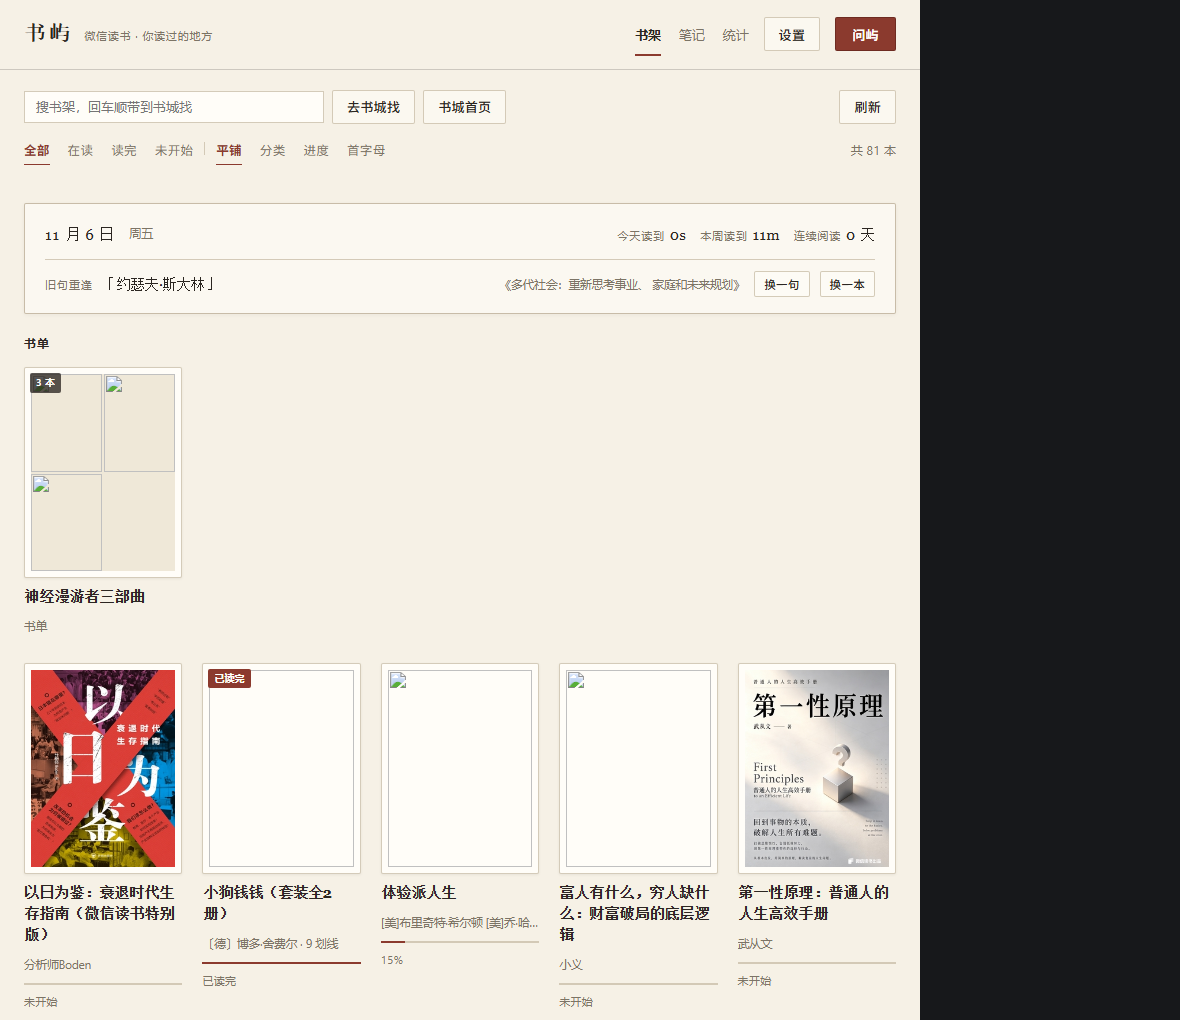
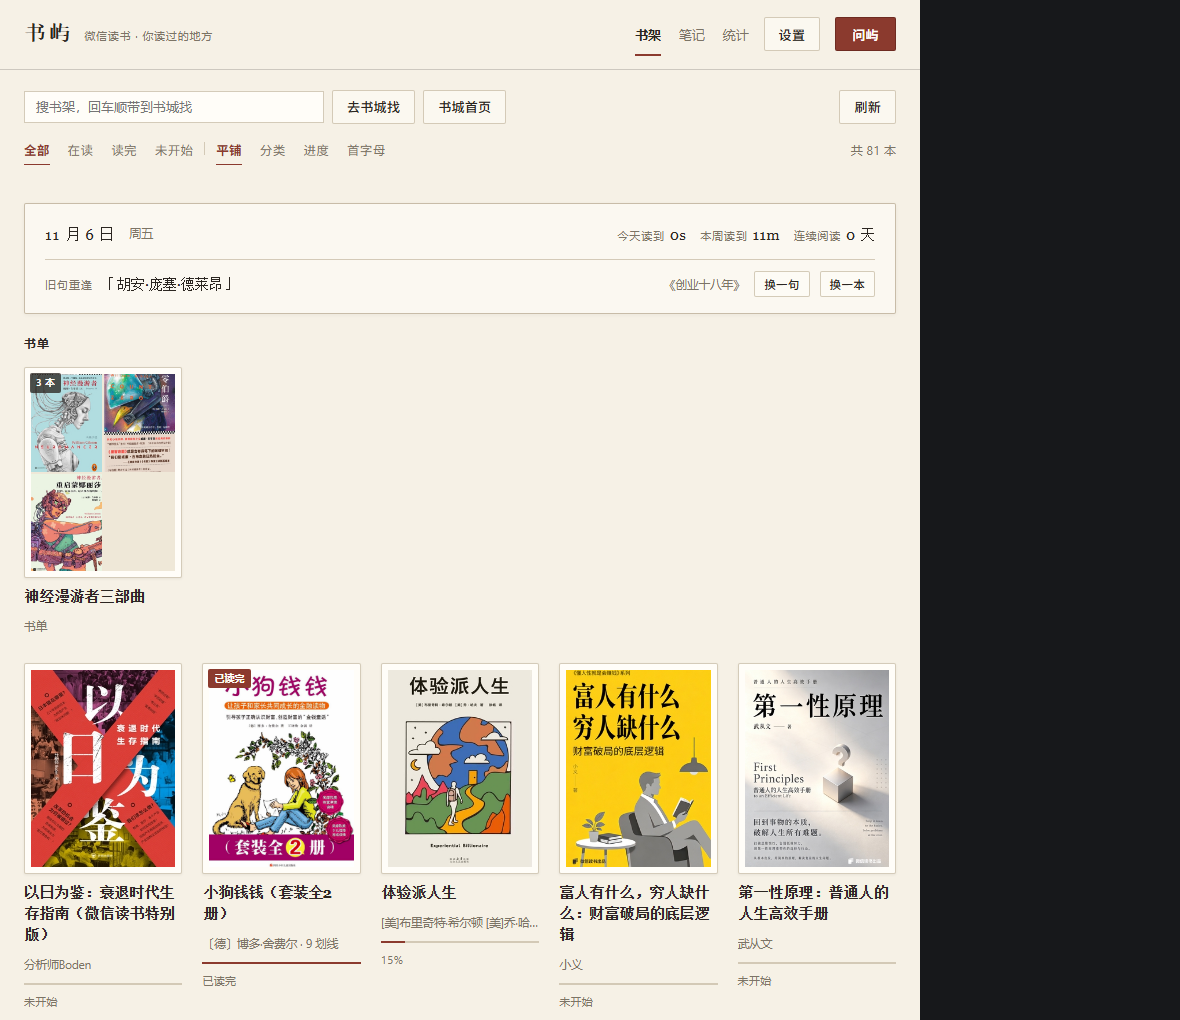
书屿 v0.9.5: 封面加载改成小队列取图（6 并发 + 重试），原生 <img> 竞速导致的偶发空白消除

diff --git a/client.js b/client.js
@@ -513,7 +513,7 @@ window.__ModuleLoader__.load({
         borderRadius: 2,
         boxShadow: '0 1px 3px rgba(43,38,33,.07)',
       },
-      coverImg: { width: '100%', height: '100%', objectFit: 'cover', display: 'block' },
+      coverImg: { position: 'relative', width: '100%', height: '100%', objectFit: 'cover', display: 'block' },
       coverFallback: {
         width: '100%',
         height: '100%',
@@ -810,28 +810,91 @@ window.__ModuleLoader__.load({
       return h('button', { type: 'button', style: { ...S[kind], ...style }, ...rest }, children);
     }
 
+    // ------------------------------------------------------------ cover loading
+    // Covers come through the host proxy (upstream needs our referer). Firing 84 <img> tags at
+    // once left a few frames permanently blank, so fetch them through a small queue instead:
+    // six in flight, two retries, bytes kept as object URLs.
+    const coverCache = new Map();
+    const coverQueue = [];
+    let coverActive = 0;
+
+    const pumpCovers = () => {
+      while (coverActive < 6 && coverQueue.length) {
+        const job = coverQueue.shift();
+        coverActive += 1;
+        job().finally(() => {
+          coverActive -= 1;
+          pumpCovers();
+        });
+      }
+    };
+
+    const fetchCover = (url) =>
+      new Promise((resolve) => {
+        coverQueue.push(async () => {
+          for (let attempt = 0; attempt < 3; attempt += 1) {
+            try {
+              const response = await fetch(attempt ? `${url}&retry=${attempt}` : url);
+              if (!response.ok) throw new Error(`cover ${response.status}`);
+              const blob = await response.blob();
+              const objectUrl = URL.createObjectURL(blob);
+              coverCache.set(url, objectUrl);
+              resolve(objectUrl);
+              return;
+            } catch {
+              // the proxy is the only source here, so a miss is almost always transient
+            }
+          }
+          coverCache.set(url, '');
+          resolve('');
+        });
+        pumpCovers();
+      });
+
     function Cover(props) {
       const { book, style, compact } = props;
-      const [broken, setBroken] = useState(false);
-      const src = coverUrl(book && book.cover);
+      const url = coverUrl(book && book.cover);
+      const inline = url && /^data:/i.test(url) ? url : '';
+      const [shot, setShot] = useState(() => inline || (url && coverCache.get(url)) || '');
       useEffect(() => {
-        setBroken(false);
-      }, [src]);
+        if (!url) {
+          setShot('');
+          return undefined;
+        }
+        if (inline) {
+          setShot(inline);
+          return undefined;
+        }
+        const cached = coverCache.get(url);
+        if (cached !== undefined) {
+          setShot(cached);
+          return undefined;
+        }
+        let alive = true;
+        setShot('');
+        fetchCover(url).then((objectUrl) => {
+          if (alive && objectUrl) setShot(objectUrl);
+        });
+        return () => {
+          alive = false;
+        };
+      }, [url, inline]);
+      const title = book && book.title ? book.title.slice(0, 16) : '';
       return h(
         'div',
         { style: { ...S.coverBox, ...style } },
-        src && !broken
+        shot
           ? h('img', {
-              src,
+              src: shot,
               alt: '',
-              loading: 'lazy',
+              decoding: 'async',
               referrerPolicy: 'no-referrer',
               style: S.coverImg,
-              onError: () => setBroken(true),
+              onError: () => setShot(''),
             })
-          : compact
+          : compact || !title
             ? null
-            : h('div', { style: S.coverFallback }, h('span', { style: S.coverFallbackText }, (book && book.title ? book.title.slice(0, 16) : '?'))),
+            : h('div', { style: S.coverFallback }, h('span', { style: S.coverFallbackText }, title)),
         book && book.finished && !compact ? h('span', { style: S.badge }, T.finishedBadge) : null,
       );
     }

diff --git a/index.js b/index.js
@@ -666,14 +666,27 @@ export function apply(ctx, config = {}) {
       return;
     }
     try {
-      const upstream = await fetch(parsed, {
-        headers: { 'user-agent': 'Mozilla/5.0', referer: 'https://weread.qq.com/' },
-        signal: AbortSignal.timeout(15000),
-      });
-      if (!upstream.ok) throw new Error(`cover ${upstream.status}`);
-      const buffer = Buffer.from(await upstream.arrayBuffer());
+      let buffer = null;
+      let type = 'image/jpeg';
+      let lastError = null;
+      // The CDN occasionally drops one request in a burst of refreshes; one short retry is enough.
+      for (let attempt = 0; attempt < 2 && !buffer; attempt += 1) {
+        try {
+          if (attempt) await new Promise((resolve) => setTimeout(resolve, 150));
+          const upstream = await fetch(parsed, {
+            headers: { 'user-agent': 'Mozilla/5.0', referer: 'https://weread.qq.com/' },
+            signal: AbortSignal.timeout(15000),
+          });
+          if (!upstream.ok) throw new Error(`cover ${upstream.status}`);
+          buffer = Buffer.from(await upstream.arrayBuffer());
+          type = upstream.headers.get('content-type') ?? 'image/jpeg';
+        } catch (error) {
+          lastError = error;
+        }
+      }
+      if (!buffer) throw lastError ?? new Error('cover unavailable');
       res.writeHead(200, {
-        'content-type': upstream.headers.get('content-type') ?? 'image/jpeg',
+        'content-type': type,
         'cache-control': 'public, max-age=86400',
         'content-length': buffer.length,
       });

diff --git a/CHANGELOG.md b/CHANGELOG.md
@@ -2,6 +2,12 @@
 
 版本号跟着 `package.json` 走，每条对应一个 commit。
 
+## 0.9.5
+
+- 封面加载重做：不再一次甩出 81 个 `<img>`（这样偶发几张会永久留白），改成经过一个小队列（同时 6 张、失败重试 2 次）自己取字节再转成 object URL；封面没到位时先显示书名，不会出现空白纸块。
+- 封面代理加上游重试（CDN 在刷新高峰偶尔丢请求），并补齐 `content-length`。
+- 测试：smoke 增加「封面经代理解码成 blob」断言。
+
 ## 0.9.4
 
 - 开源收尾：加 CI（GitHub Actions，Node 22/24 上跑语法检查 + 两个离线测试）、`.gitattributes`、本文件。

diff --git a/README.md b/README.md
@@ -123,6 +123,7 @@ Pull request 都欢迎。
 
 完整记录见 [CHANGELOG.md](CHANGELOG.md)。
 
+- 0.9.5 — 封面加载重做：小队列取图（6 并发、失败重试）转 object URL，不再一次甩 81 个 `<img>`
 - 0.9.4 — 开源收尾：CI、CHANGELOG、去掉机器相关路径
 - 0.9.3 — 开源就绪：MIT LICENSE、README、真实数据截图
 - 0.9.2 — 封面修复（放行腾讯 COS 域名）+ 书架分组（平铺 / 分类 / 进度 / 首字母）
